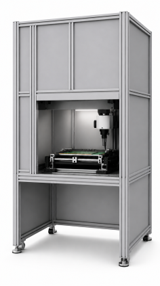
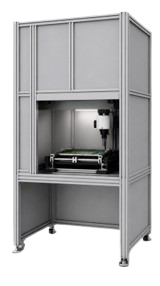
fix image path

diff --git a/solution.html b/solution.html
@@ -308,7 +308,7 @@
 
                 <!-- 주석 -->
                 <p style="margin-top:10px; font-size:13px; color:#888; line-height:1.5;">
-                    * Board Size 300 x 225 mm 기준 값임 장비 설치 장소 및 네트워크 환경에 따라 차이 발생 가능함.
+                    <span class="nowrap">* Board Size 300 x 225 mm 기준 값임 장비 설치 장소 및 네트워크 환경에 따라 차이 발생 가능함.</span>
                 </p>
 
             </div>
